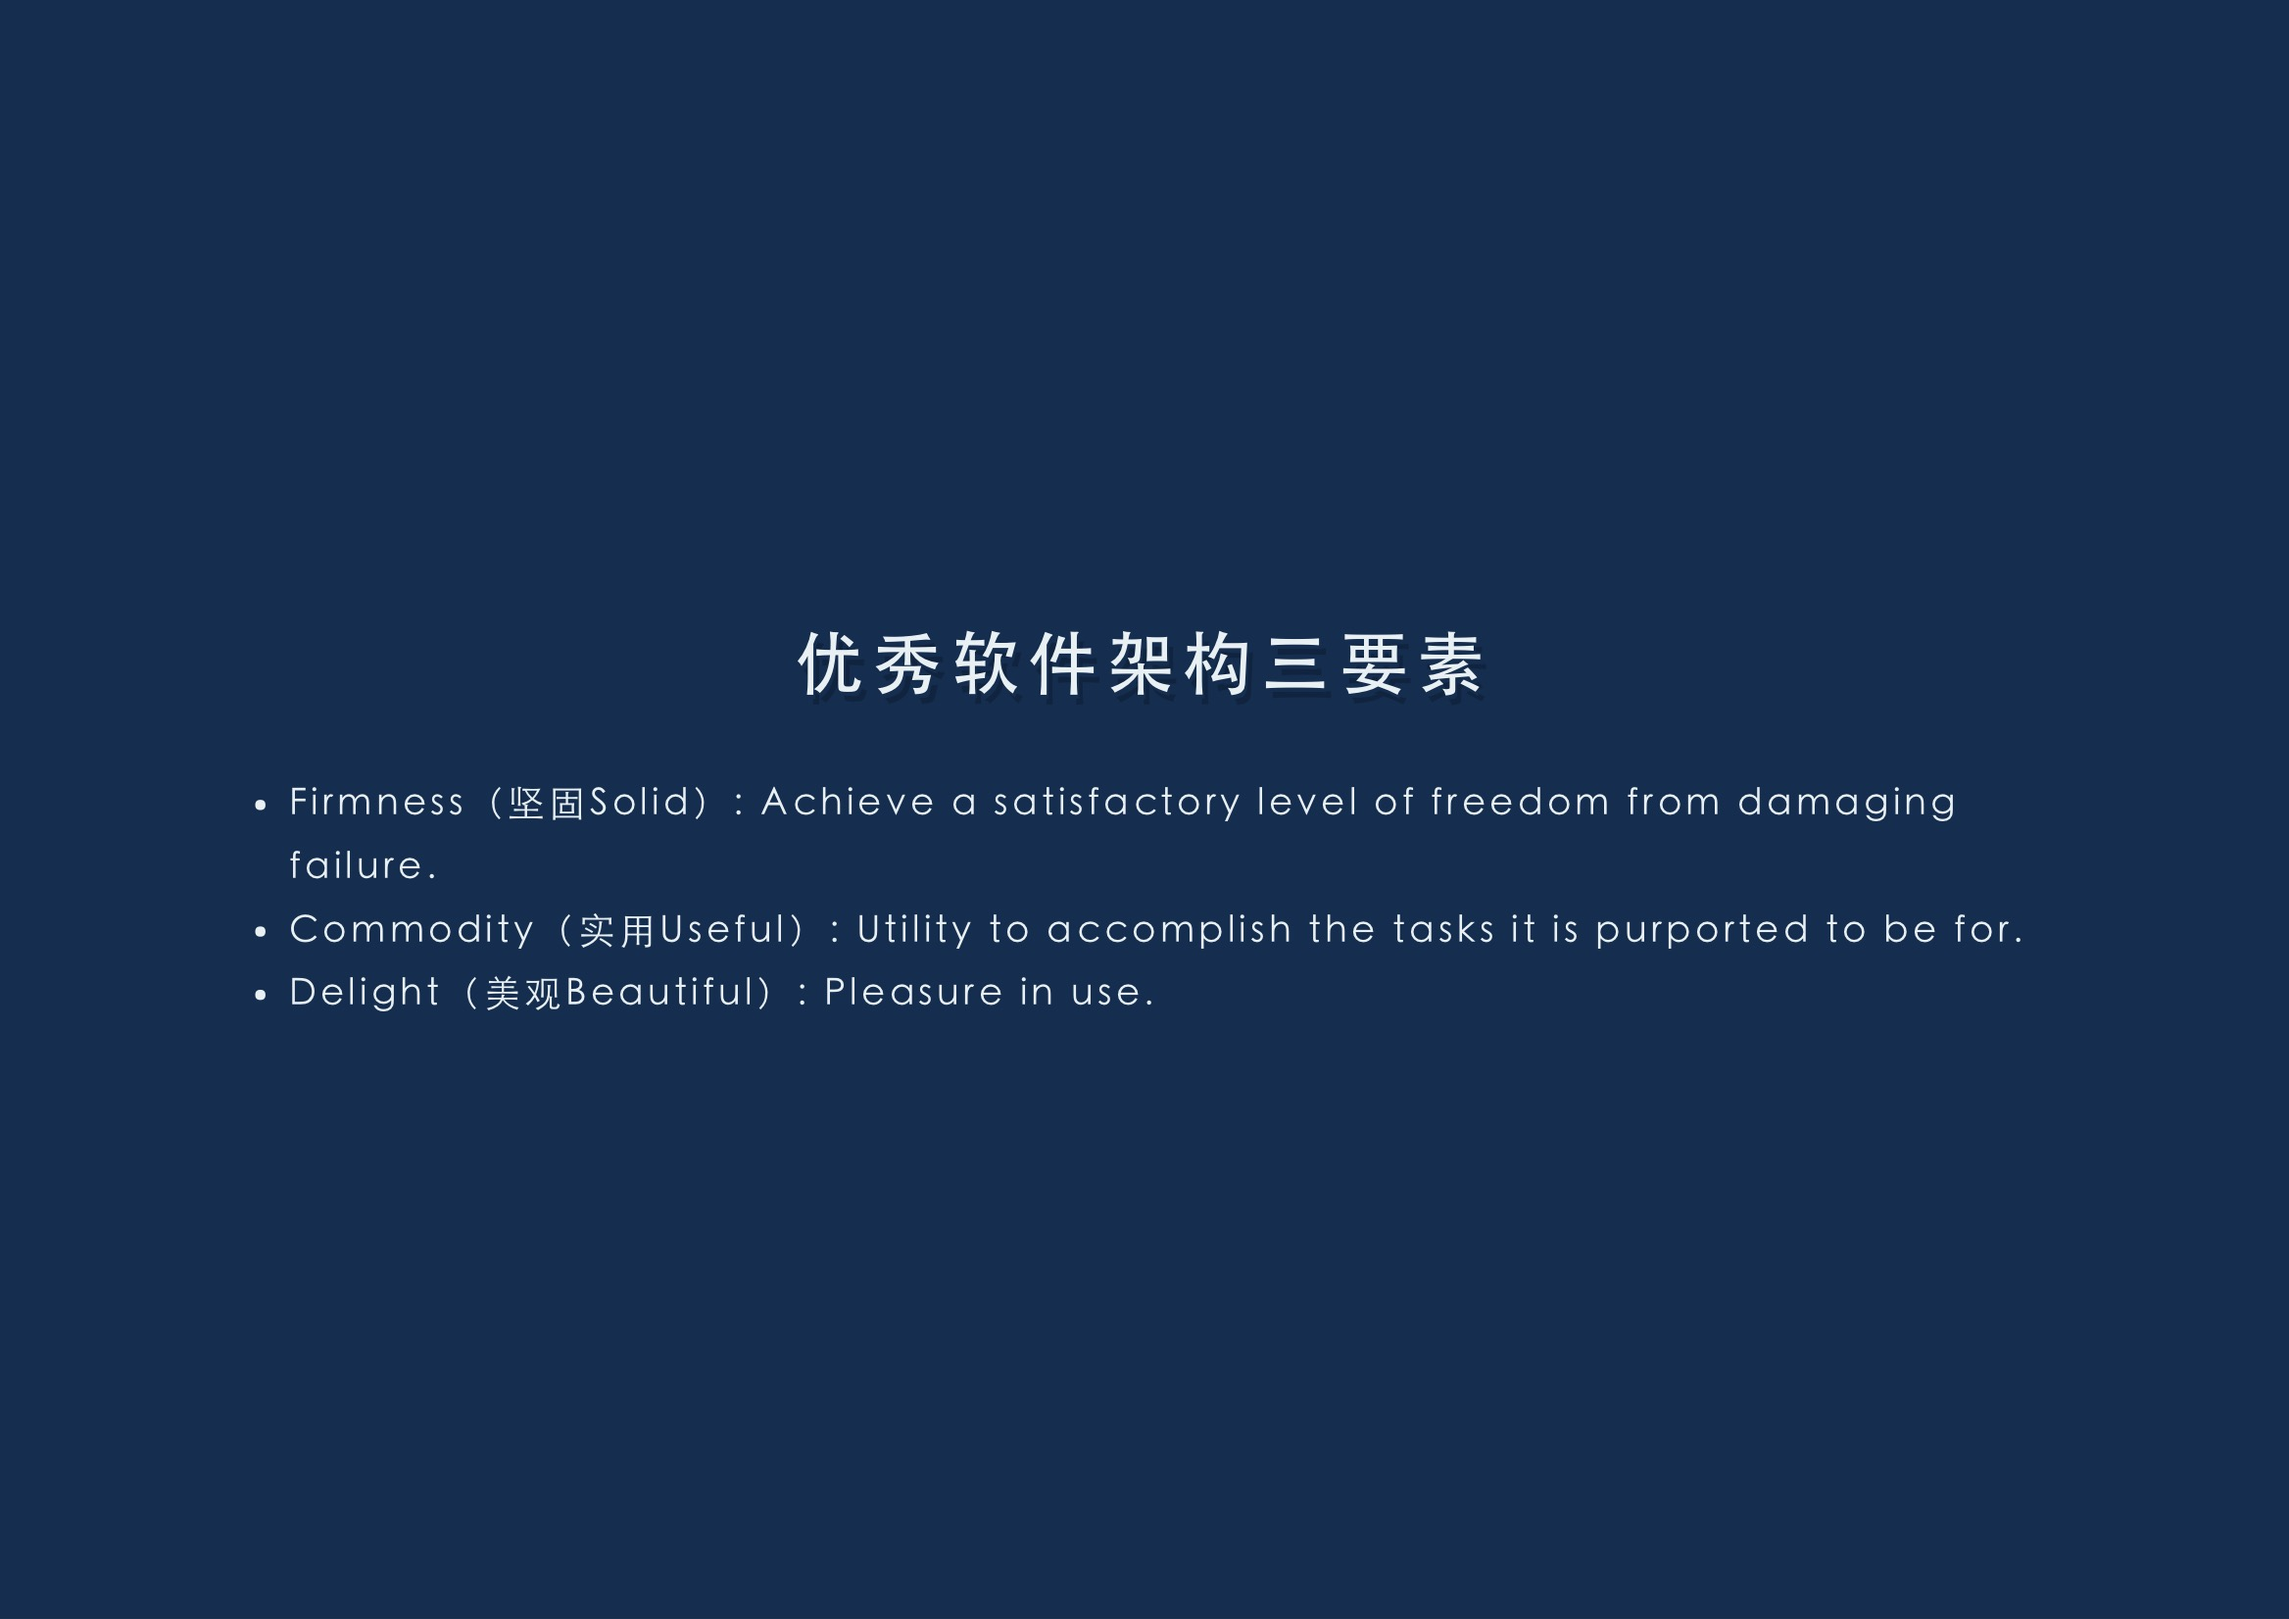
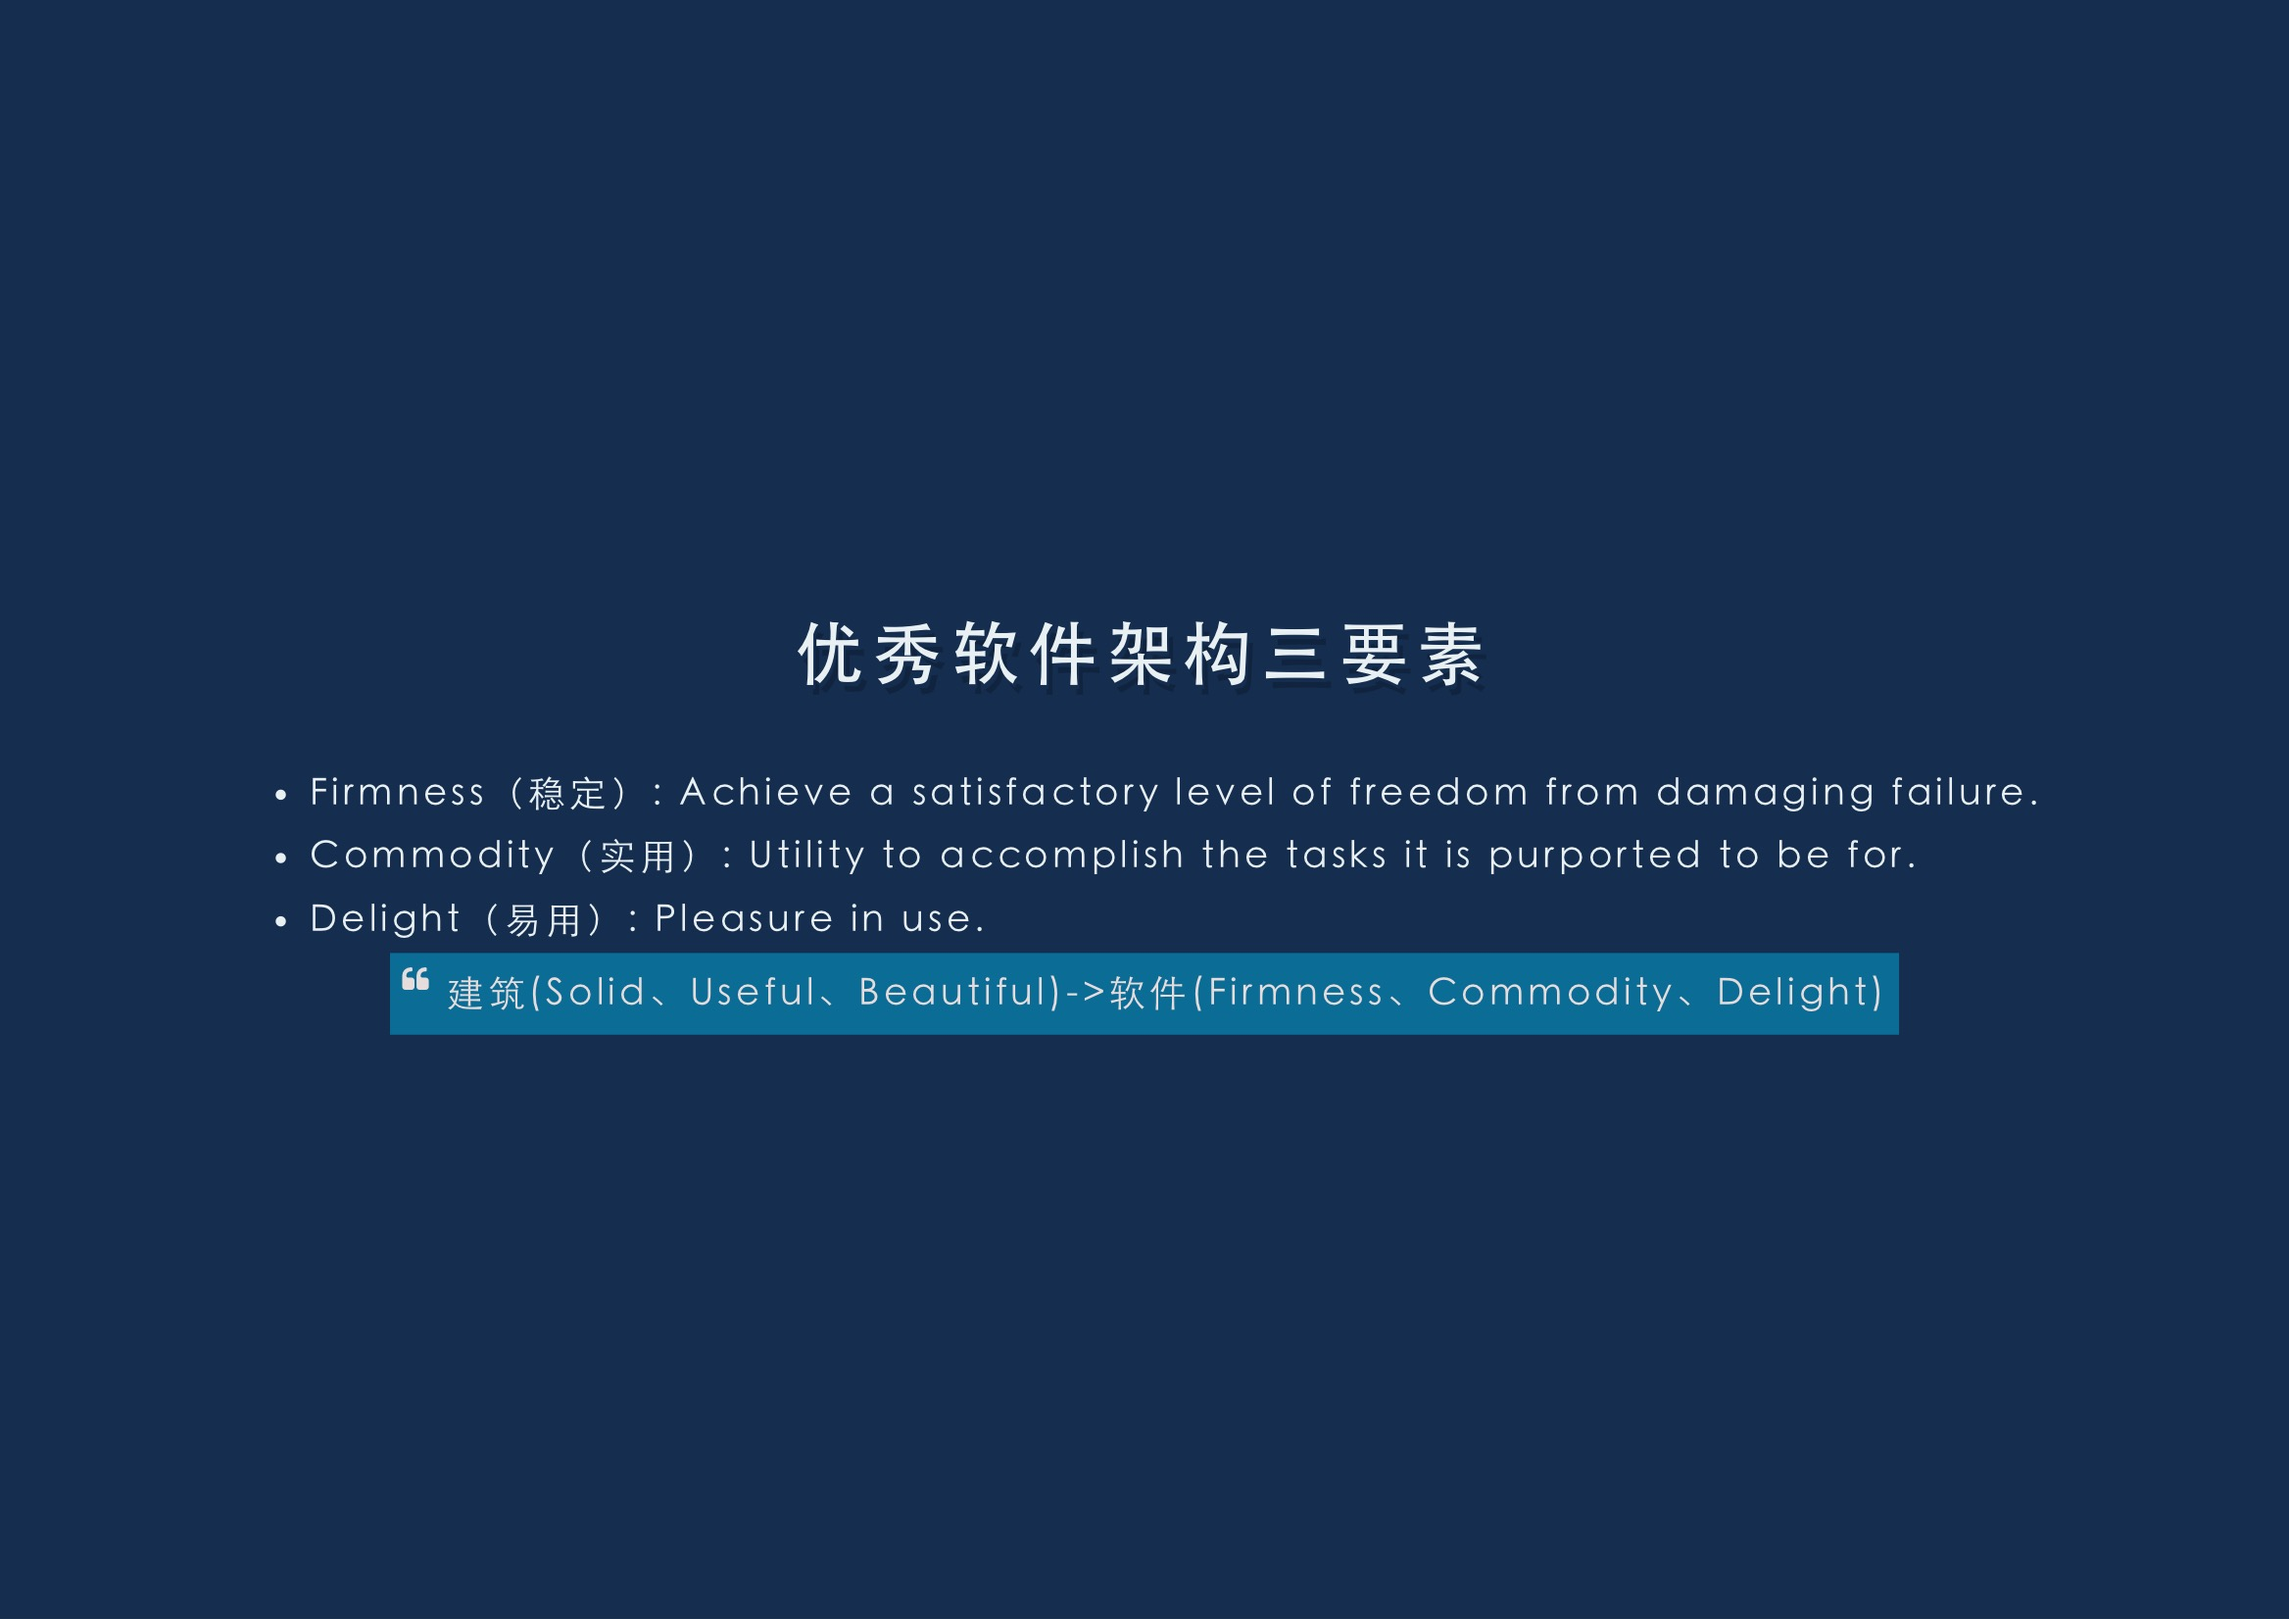
Site updated at 2018-04-27 07:30:35 UTC

Changed region(s): [[0.125, 0.4631, 0.875, 0.6483], [0.3438, 0.3705, 0.6562, 0.4322]]

diff --git a/blog/2018/03/10/regx/index.html b/blog/2018/03/10/regx/index.html
@@ -351,7 +351,7 @@
 
 <hr />
 
-<p>中华万年历技术团队长期求Java研发工程师，给你挑战<strong>亿级用户</strong>、<strong>千万日活APP</strong>开发的机会。感兴趣者可发送简历到<a href="&#x6d;&#97;&#105;&#x6c;&#116;&#x6f;&#x3a;&#x68;&#x61;&#110;&#x67;&#x40;&#x65;&#x74;&#111;&#x75;&#x63;&#x68;&#46;&#x63;&#x6e;">&#x68;&#97;&#110;&#103;&#64;&#x65;&#116;&#x6f;&#117;&#99;&#104;&#46;&#99;&#x6e;</a>。要求如下：</p>
+<p>中华万年历技术团队长期求Java研发工程师，给你挑战<strong>亿级用户</strong>、<strong>千万日活APP</strong>开发的机会。感兴趣者可发送简历到<a href="&#109;&#x61;&#105;&#108;&#x74;&#x6f;&#x3a;&#104;&#x61;&#x6e;&#x67;&#x40;&#101;&#x74;&#x6f;&#117;&#99;&#104;&#46;&#99;&#110;">&#x68;&#x61;&#x6e;&#x67;&#64;&#x65;&#x74;&#111;&#117;&#x63;&#104;&#x2e;&#x63;&#110;</a>。要求如下：</p>
 
 <p><img src="/images/blog_images/java_job.jpg" width="350" style="margin:0 auto;display:block"/></p>
 

diff --git a/arch-ppt/index.html b/arch-ppt/index.html
@@ -70,10 +70,13 @@
 </hgroup><article>
 
 <ul>
-<li>Firmness（坚固Solid）: Achieve a satisfactory level of freedom from damaging failure.</li>
-<li>Commodity（实用Useful）: Utility to accomplish the tasks it is purported to be for.</li>
-<li>Delight（美观Beautiful）: Pleasure in use.</li>
+<li>Firmness（稳定）: Achieve a satisfactory level of freedom from damaging failure.</li>
+<li>Commodity（实用）: Utility to accomplish the tasks it is purported to be for.</li>
+<li>Delight（易用）: Pleasure in use.</li>
 </ul>
+<blockquote>
+<p>建筑(Solid、Useful、Beautiful)-&gt;软件(Firmness、Commodity、Delight)</p>
+</blockquote>
 
 </article></section></slide>
 <slide class="slide"><section class="slide-wrapper"><hgroup>
